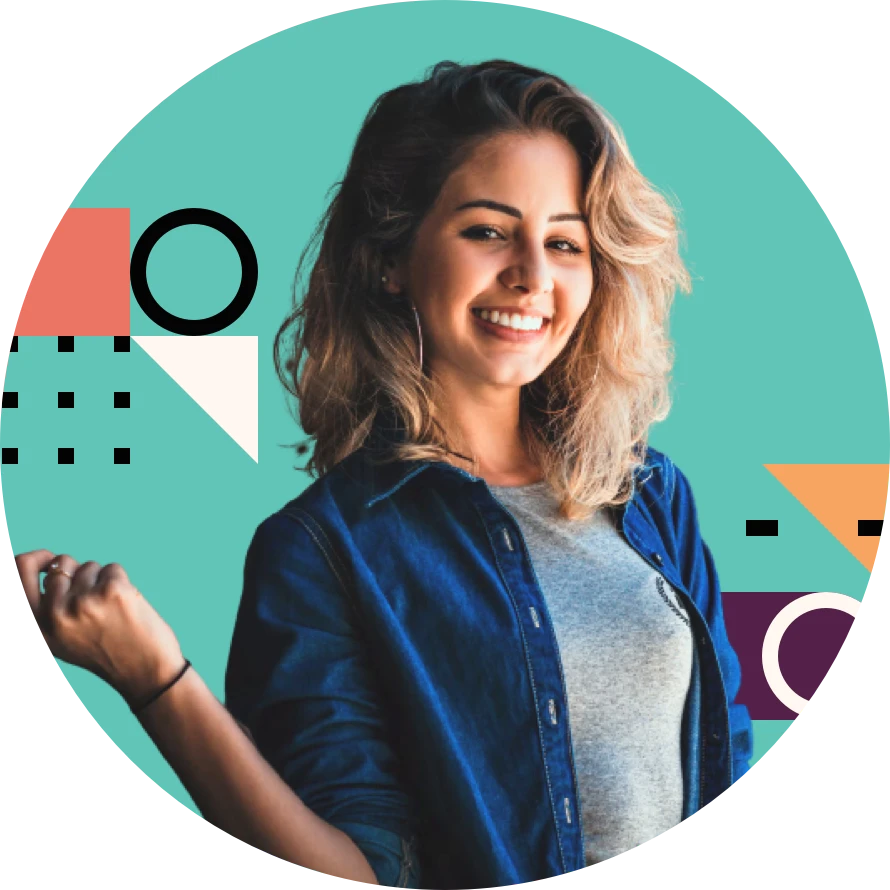
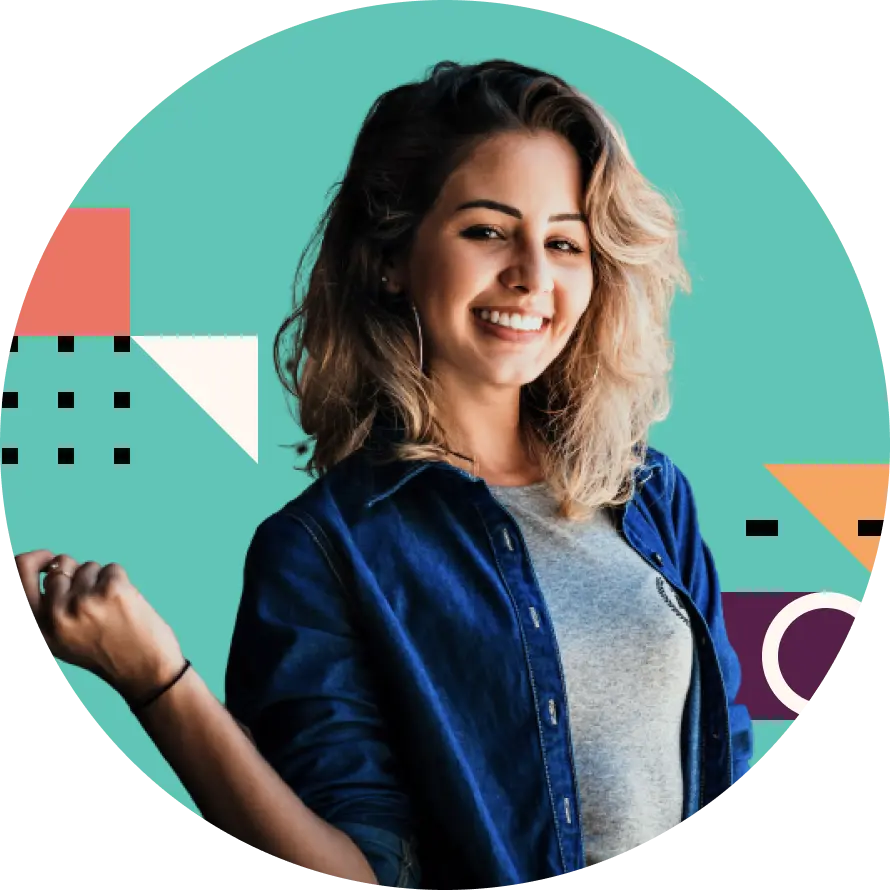
about me

diff --git a/src/components/AboutMe.jsx b/src/components/AboutMe.jsx
@@ -1,0 +1,32 @@
+import Image from "../assets/image-amy.webp";
+import Button from "./Button";
+import OvalIcon from "./Icons";
+
+const AboutMe = () => {
+  return (
+    <section className=" relative container mt-[112px] flex items-center justify-between gap-x-[125px]">
+      <img
+        width={445}
+        height={445}
+        className="w-[445px] aspect-square"
+        src={Image}
+        alt="Amy Photo"
+      />
+      <OvalIcon className=" animate-spin-slow absolute w-[64px] left-[65px] top-[103px]" />
+
+      <div>
+        <h2 className=" max-w-[19ch]">
+          I’m Amy, and I’d love to work on your next project
+        </h2>
+        <p className=" mt-[34px] mb-[32px]">
+          I love working with others to create beautiful design solutions. I’ve
+          designed everything from brand illustrations to complete mobile apps.
+          I’m also handy with a camera!
+        </p>
+        <Button classname="bg-pink">Free Consultation</Button>
+      </div>
+    </section>
+  );
+};
+
+export default AboutMe;

diff --git a/src/components/Hero.jsx b/src/components/Hero.jsx
@@ -55,8 +55,8 @@ const Hero = () => {
     LottieFile({ id: "ui-ux", file: uiuxAnimation })
     LottieFile({ id: "photography", file: photographyAnimation })
     return (
-        <section className="container">
-            <div className="flex flex-col items-center mt-[66px] text-center">
+        <section className="container ">
+            <div className="flex flex-col items-center mt-[66px] text-center ">
                 <h1>Design solutions made easy</h1>
                 <p className="mt-[25px] max-w-[53ch]">
                     With over ten years of experience in various design disciplines, I’m your one-stop shop for your design needs.

diff --git a/src/components/Icons.jsx b/src/components/Icons.jsx
@@ -1,0 +1,21 @@
+export const OvalIcon = (props) => (
+  <svg
+    xmlns="http://www.w3.org/2000/svg"
+    xmlSpace="preserve"
+    style={{
+      enableBackground: "new 0 0 64 64",
+    }}
+    viewBox="0 0 64 64"
+    {...props}
+  >
+    <path
+      d="M58.7 23.5C59.5 26.2 60 29 60 32c0 15.5-12.5 28-28 28S4 47.5 4 32 16.5 4 32 4c3.6 0 7.1.7 10.3 1.9"
+      style={{
+        fill: "none",
+        stroke: "#030303",
+        strokeWidth: 8,
+      }}
+    />
+  </svg>
+);
+export default OvalIcon;

diff --git a/src/App.jsx b/src/App.jsx
@@ -1,3 +1,4 @@
+import AboutMe from "./components/AboutMe"
 import Header from "./components/Header"
 import Hero from "./components/Hero"
 
@@ -7,6 +8,7 @@ function App() {
       <Header />
       <main>
         <Hero />
+        <AboutMe />
       </main>
     </>
   )

diff --git a/tailwind.config.js b/tailwind.config.js
@@ -20,6 +20,9 @@ export default {
       fontFamily: {
         'sans': ['Plus Jakarta Sans', 'sans-serif'],
       },
+      animation: {
+        'spin-slow': 'spin 2s linear infinite',
+      }
     },
   },
   plugins: [],
